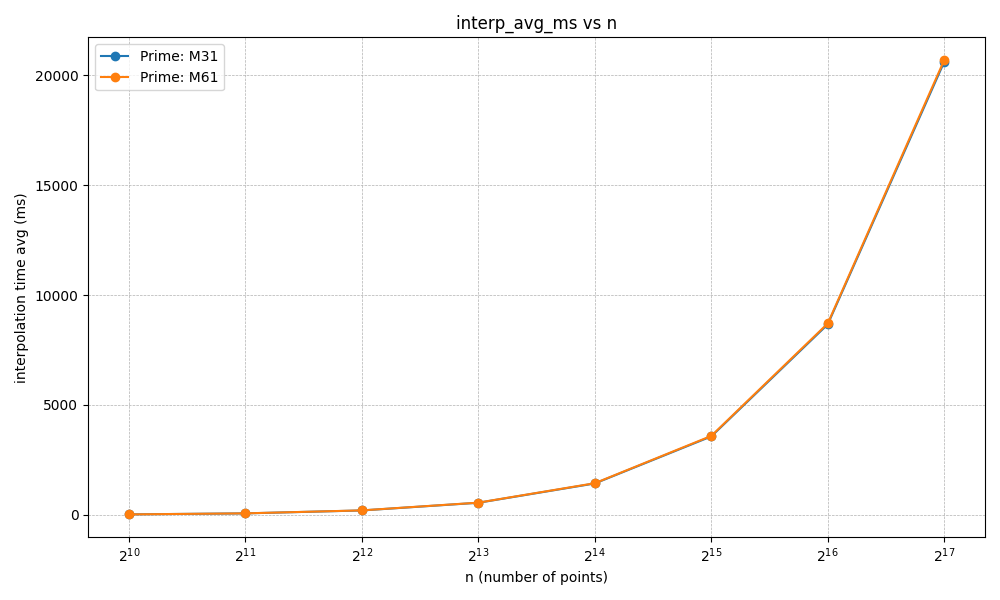
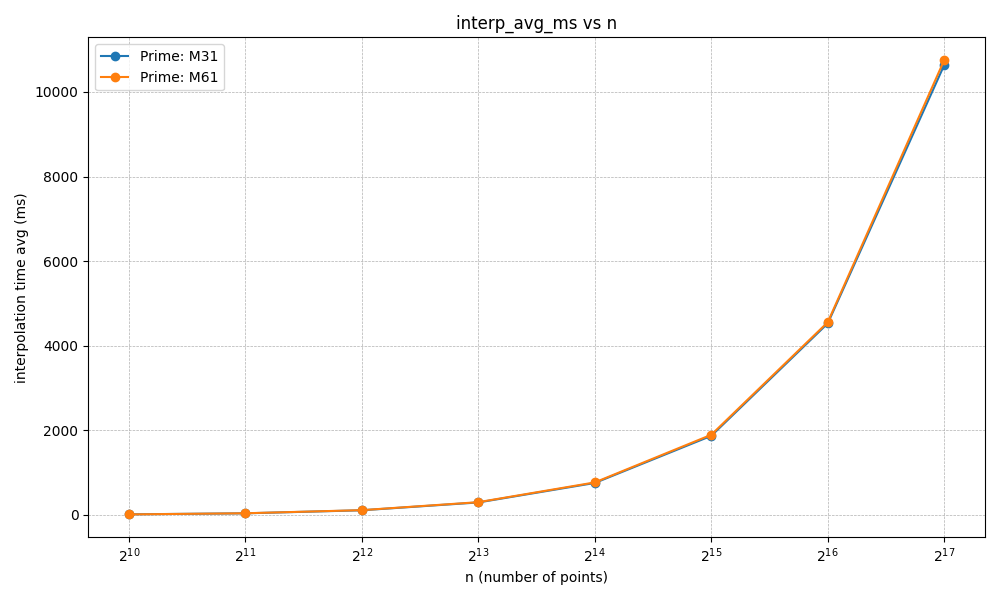
perf: replace hot-path % with Barrett reduction and cache constants

diff --git a/include/poly_interp/fp_poly.hpp b/include/poly_interp/fp_poly.hpp
@@ -48,6 +48,20 @@ inline u32 add_mod(u32 a, u32 b, u32 mod) {
 inline u32 sub_mod(u32 a, u32 b, u32 mod) {
     return (a >= b) ? (a - b) : (a + mod - b);
 }
+// -------------------- [BARRETT] fast mod for u64 x with 32-bit prime mod --------------------
+inline u32 barrett_reduce_u64(u64 x, u32 mod, u64 im) {
+    // im = floor(2^64 / mod)
+    const u64 q = (u64)(((u128)x * im) >> 64);
+    u64 r = x - q * (u64)mod;   // r in [0, 2*mod)
+    if (r >= mod) r -= mod;
+    if (r >= mod) r -= mod;
+    return (u32)r;
+}
+
+inline u32 mul_mod_barrett(u32 a, u32 b, u32 mod, u64 im) {
+    return barrett_reduce_u64((u64)a * (u64)b, mod, im);
+}
+
 inline u32 mul_mod(u32 a, u32 b, u32 mod) {
     return (u64)a * b % mod;
 }
@@ -71,6 +85,8 @@ struct NTTCache {
     u32 mod = 0;
     u32 primitive_root = 0;
     int max_base = 0;
+
+    u64 barrett_im = 0; // floor(2^64 / mod)
 
     u32 cache_n = 0;                 // power of two
     std::vector<u32> root;           // size cache_n: base^i
@@ -101,12 +117,12 @@ inline void build_root_table(NTTCache& C, u32 new_n) {
 
     C.root[0] = 1;
     for (u32 i = 1; i < new_n; ++i) {
-        C.root[i] = mul_mod(C.root[i - 1], base, C.mod);
+        C.root[i] = mul_mod_barrett(C.root[i - 1], base, C.mod, C.barrett_im);
     }
 
     C.iroot[0] = 1;
     for (u32 i = 1; i < new_n; ++i) {
-        C.iroot[i] = mul_mod(C.iroot[i - 1], ibase, C.mod);
+        C.iroot[i] = mul_mod_barrett(C.iroot[i - 1], ibase, C.mod, C.barrett_im);
     }
 
     // inv_n table (fill up to logn)
@@ -130,6 +146,9 @@ inline NTTCache& ensure_ntt_cache(std::size_t prime_idx, u32 n) {
         C.max_base = prm.max_base;
         C.cache_n = 0;
         C.inv_ready_upto = -1;
+
+        // [BARRETT] im = floor(2^64 / mod)
+        C.barrett_im = (u64)(((u128)1 << 64) / (u128)C.mod);
     }
 
     if (C.mod != prm.mod) {
@@ -184,13 +203,13 @@ inline void ntt_cached(std::size_t prime_idx, std::vector<u32>& a, bool invert) 
         const u32 wlen = invert ? C.iroot[step] : C.root[step];
 
         for (u32 i = 0; i < n; i += len) {
-            u64 w = 1;
+            u32 w = 1;
             for (u32 j = 0; j < half; ++j) {
                 const u32 u = a[i + j];
-                const u32 v = (u32)(w * a[i + j + half] % mod);
+                const u32 v = barrett_reduce_u64((u64)w * (u64)a[i + j + half], mod, C.barrett_im);
                 a[i + j] = add_mod(u, v, mod);
                 a[i + j + half] = sub_mod(u, v, mod);
-                w = (w * wlen) % mod;
+                w = mul_mod_barrett(w, wlen, mod, C.barrett_im);
             }
         }
     }
@@ -248,7 +267,6 @@ inline std::vector<u32> convolution_mod_ntt(const std::vector<u32>& a,
     if (a.empty() || b.empty()) return {};
 
     const auto prm = kNTT[prime_idx];
-    const u32 mod = prm.mod;
 
     std::size_t need = a.size() + b.size() - 1;
     std::size_t ntt_n = 1;
@@ -258,6 +276,10 @@ inline std::vector<u32> convolution_mod_ntt(const std::vector<u32>& a,
         throw std::runtime_error("convolution_mod_ntt: NTT length exceeds prime capability");
     }
 
+    // [BARRETT] get cache to access barrett_im + mod (and ensure cache exists for ntt_n)
+    NTTCache& C = ensure_ntt_cache(prime_idx, (u32)ntt_n);
+    const u32 mod = C.mod;
+
     std::vector<u32> fa(ntt_n, 0), fb(ntt_n, 0);
     std::copy(a.begin(), a.end(), fa.begin());
     std::copy(b.begin(), b.end(), fb.begin());
@@ -265,8 +287,9 @@ inline std::vector<u32> convolution_mod_ntt(const std::vector<u32>& a,
     ntt_cached(prime_idx, fa, false);
     ntt_cached(prime_idx, fb, false);
 
+    // [BARRETT] pointwise multiply without %
     for (std::size_t i = 0; i < ntt_n; ++i) {
-        fa[i] = (u32)((u64)fa[i] * fb[i] % mod);
+        fa[i] = mul_mod_barrett(fa[i], fb[i], mod, C.barrett_im);
     }
 
     ntt_cached(prime_idx, fa, true);
